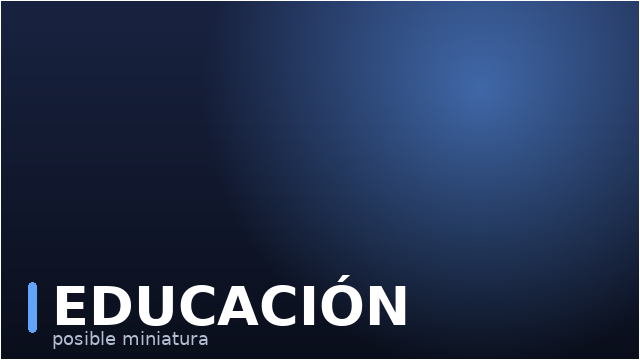
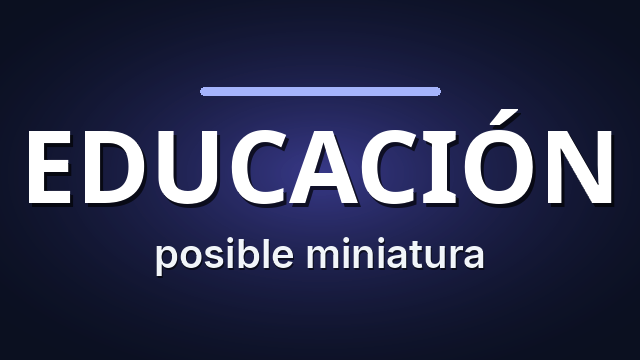
Make category preview thumbs larger, centered, and easier to read.
Regenerate stock thumbnails with big centered labels and bump list thumb
display size so the category text stays legible in Ideas.

diff --git a/web/src/app/globals.css b/web/src/app/globals.css
@@ -735,8 +735,8 @@ a.idea-row:hover {
 }
 
 .idea-thumb {
-  width: 96px;
-  height: 54px;
+  width: 128px;
+  height: 72px;
   object-fit: cover;
   border-radius: 10px;
   flex-shrink: 0;
@@ -745,8 +745,8 @@ a.idea-row:hover {
 }
 
 .idea-thumb-sm {
-  width: 72px;
-  height: 40px;
+  width: 96px;
+  height: 54px;
   border-radius: 8px;
 }
 

diff --git a/web/src/components/IdeaThumb.tsx b/web/src/components/IdeaThumb.tsx
@@ -28,8 +28,8 @@ export function IdeaThumb({
       src={src}
       alt=""
       className={className}
-      width={160}
-      height={90}
+      width={size === "sm" ? 96 : 128}
+      height={size === "sm" ? 54 : 72}
       loading="lazy"
     />
   );
